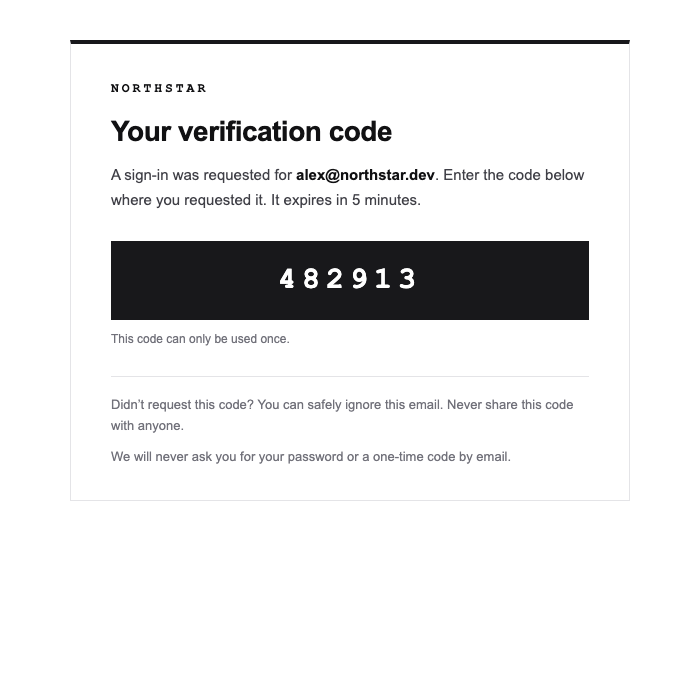
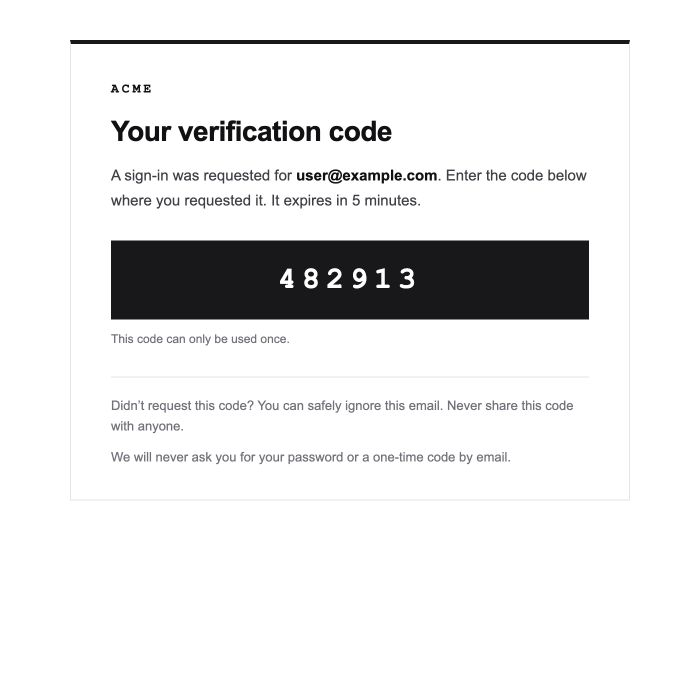
fix: align Better Auth previews and docs

diff --git a/better-auth.html b/better-auth.html
@@ -507,37 +507,18 @@
             </summary>
             <div class="how-to-answer">
               <p>
-                Better Auth does not send emails itself — each email type has a
-                callback where you deliver the message with your own provider,
-                such as Resend or Nodemailer. Paste the copied HTML into a
-                template literal (backticks) inside the matching callback, and
-                the <code>${url}</code>-style placeholders are filled in by
-                JavaScript:
-              </p>
-              <pre><code>import { betterAuth } from "better-auth";
-import { Resend } from "resend";
-
-const resend = new Resend(process.env.RESEND_API_KEY);
-
-export const auth = betterAuth({
-  emailVerification: {
-    sendVerificationEmail: async ({ user, url }) => {
-      const email = user.email;
-      await resend.emails.send({
-        from: "Acme &lt;auth@yourdomain.com&gt;",
-        to: email,
-        subject: "Confirm your email",
-        html: `&lt;!-- paste better-auth-verify-email.html here --&gt;`,
-      });
-    },
-  },
-});</code></pre>
-              <p>
-                The same pattern works for
-                <code>sendResetPassword</code>, the magic link and email OTP
-                plugins, <code>sendChangeEmailConfirmation</code>,
-                <code>sendDeleteAccountVerification</code>, and the
-                organization plugin&rsquo;s <code>sendInvitationEmail</code>.
+                Better Auth provides callbacks for sending authentication
+                emails. See the
+                <a
+                  class="font-medium text-blue-600 hover:underline"
+                  href="https://better-auth.com/docs/concepts/email"
+                  target="_blank"
+                  rel="noopener noreferrer"
+                  >Better Auth email documentation</a
+                >
+                to configure the appropriate callback. To use custom HTML, pass
+                the copied template as the HTML body through your email
+                provider; the exact setup depends on the provider you use.
               </p>
             </div>
           </details>
@@ -563,7 +544,7 @@ export const auth = betterAuth({
                 <code>${inviteLink}</code>, <code>${inviterName}</code>, and
                 <code>${organizationName}</code> unchanged. They are plain
                 JavaScript template-literal placeholders, so define matching
-                variables from your callback&rsquo;s arguments — for example
+                variables from your callback&rsquo;s arguments, for example
                 <code>const email = user.email</code>. If you build the HTML
                 without template literals, swap them out with
                 <code>.replace()</code> instead.

diff --git a/README.md b/README.md
@@ -56,10 +56,18 @@ When you are finished, copy the customized HTML or download it as a file.
 - [Supabase Invite User](https://nirajrajgor.github.io/email-templates/preview.html?template=supabase-invite-user)
 - [Supabase Change Email Address](https://nirajrajgor.github.io/email-templates/preview.html?template=supabase-change-email)
 - [Supabase Reauthentication](https://nirajrajgor.github.io/email-templates/preview.html?template=supabase-reauthentication)
+- [Better Auth Verify Email](https://nirajrajgor.github.io/email-templates/preview.html?template=better-auth-verify-email)
+- [Better Auth Reset Password](https://nirajrajgor.github.io/email-templates/preview.html?template=better-auth-reset-password)
+- [Better Auth Magic Link](https://nirajrajgor.github.io/email-templates/preview.html?template=better-auth-magic-link)
+- [Better Auth Email OTP](https://nirajrajgor.github.io/email-templates/preview.html?template=better-auth-email-otp)
+- [Better Auth Invite Member](https://nirajrajgor.github.io/email-templates/preview.html?template=better-auth-invite-member)
+- [Better Auth Change Email](https://nirajrajgor.github.io/email-templates/preview.html?template=better-auth-change-email)
+- [Better Auth Delete Account](https://nirajrajgor.github.io/email-templates/preview.html?template=better-auth-delete-account)
 
 ## Integration Collections
 
 - [Supabase Email Templates](https://nirajrajgor.github.io/email-templates/supabase.html) includes customizable Confirm Signup, Reset Password, Magic Link, Email OTP, Invite User, Change Email Address, and Reauthentication designs. Supabase variables are preserved during customization.
+- [Better Auth Email Templates](https://nirajrajgor.github.io/email-templates/better-auth.html) includes customizable Verify Email, Reset Password, Magic Link, Email OTP, Invite Member, Change Email, and Delete Account designs. Better Auth placeholders are preserved during customization.
 
 ## Setup Instructions
 
